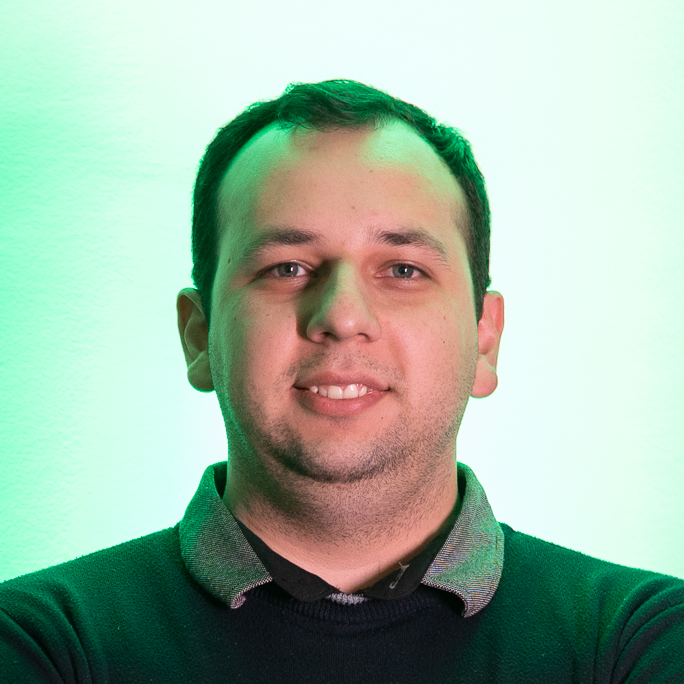
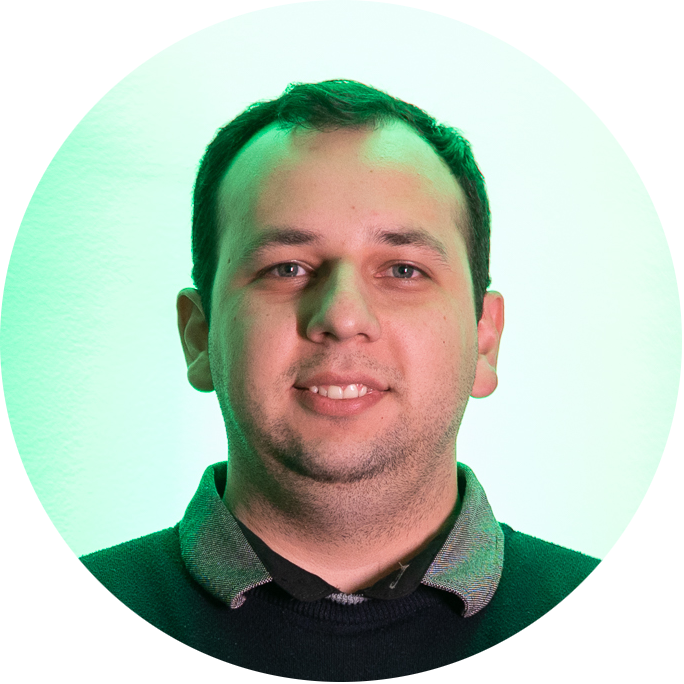
Initial commit

Changed region(s): [[0.0, 0.0, 1.0, 1.0], [0.0, 0.0, 0.2149, 0.4605]]

diff --git a/README.md b/README.md
@@ -1,26 +1,28 @@
-<img align="right" width="250px" style="margin-top:-20px; border-radius: 50%" src="leandro-profile.png">
+<img align="right" width="250px" src="leandro-profile.png">
 
-</br>
-</br>
+## Hi there!
 
-## Leandro Hermes Neto
+I'm Leandro Hermes Neto, musician, christian, dad of Théo and husband of Francieli. I live in Concórdia, Santa Catarina, Brazil, where I was born and raised. I've also been a passionate developer since 2012. Already worked with Delphi, then switched to the web part of the force with PHP and JavaScript, which I've been working with since 2014.
 
-</br>
-</br>
+Having had a lot of contact with users, I am concerned about the usability of the software, but without neglecting maintainability and the compulsion for clean and neat code. When I met Laravel, I fell in love for beautiful code, then I started to try to always be up-to-date to modern and working good practices in anything I do.
 
-## Hello there!
+I'm not an enthusiast of new technologies, but I try not to stand still in time, updating myself whenever possible and making use of good practices in software development.
 
-<!--
-**leandro-hermes/leandro-hermes** is a ✨ _special_ ✨ repository because its `README.md` (this file) appears on your GitHub profile.
+When I can, I automate routinely performed tasks to use my time and effort to focus on development.
 
-Here are some ideas to get you started:
+---
 
-- 🔭 I’m currently working on ...
-- 🌱 I’m currently learning ...
-- 👯 I’m looking to collaborate on ...
-- 🤔 I’m looking for help with ...
-- 💬 Ask me about ...
-- 📫 How to reach me: ...
-- 😄 Pronouns: ...
-- ⚡ Fun fact: ...
--->
+![PHP](https://img.shields.io/badge/PHP-8_years-333?labelColor=000&style=flat-square&logo=PHP)
+![JavaScript](https://img.shields.io/badge/JavaScript-8_years-333?labelColor=000&style=flat-square&logo=JavaScript)
+![TypeScript](https://img.shields.io/badge/TypeScript-6_years-333?labelColor=000&style=flat-square&logo=TypeScript)
+![SQL](https://img.shields.io/badge/SQL-10_years-333?labelColor=000&style=flat-square&logo=Postgresql)
+
+[![Laravel](https://img.shields.io/badge/-Laravel-000?style=flat-square&logo=laravel)](https://laravel.com)
+[![Angular](https://img.shields.io/badge/-Angular-1976d2?style=flat-square&logo=angular)](https://angular.io)
+[![Git](https://img.shields.io/badge/-Git-000?style=flat-square&logo=git)](https://git-scm.com)
+[![Amazon AWS](https://img.shields.io/badge/-Amazon_AWS-ff9900?style=flat-square&logo=amazonaws)](https://aws.amazon.com)
+[![Docker](https://img.shields.io/badge/-Docker-fff?style=flat-square&logo=docker)](https://aws.amazon.com)
+
+---
+
+[![Leandro's GitHub stats](https://github-readme-stats.vercel.app/api?username=leandro-hermes&theme=dracula&count_private=true&show_icons=true)](https://github.com/leandro-hermes)
